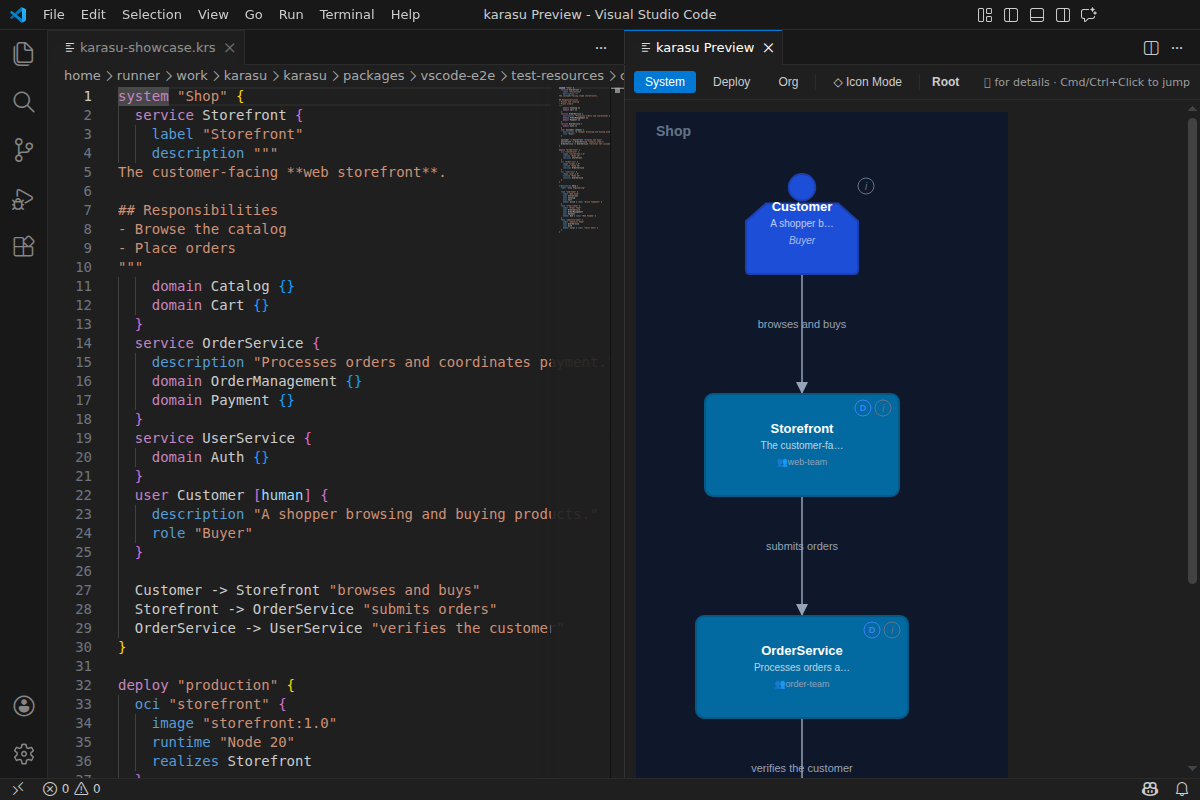
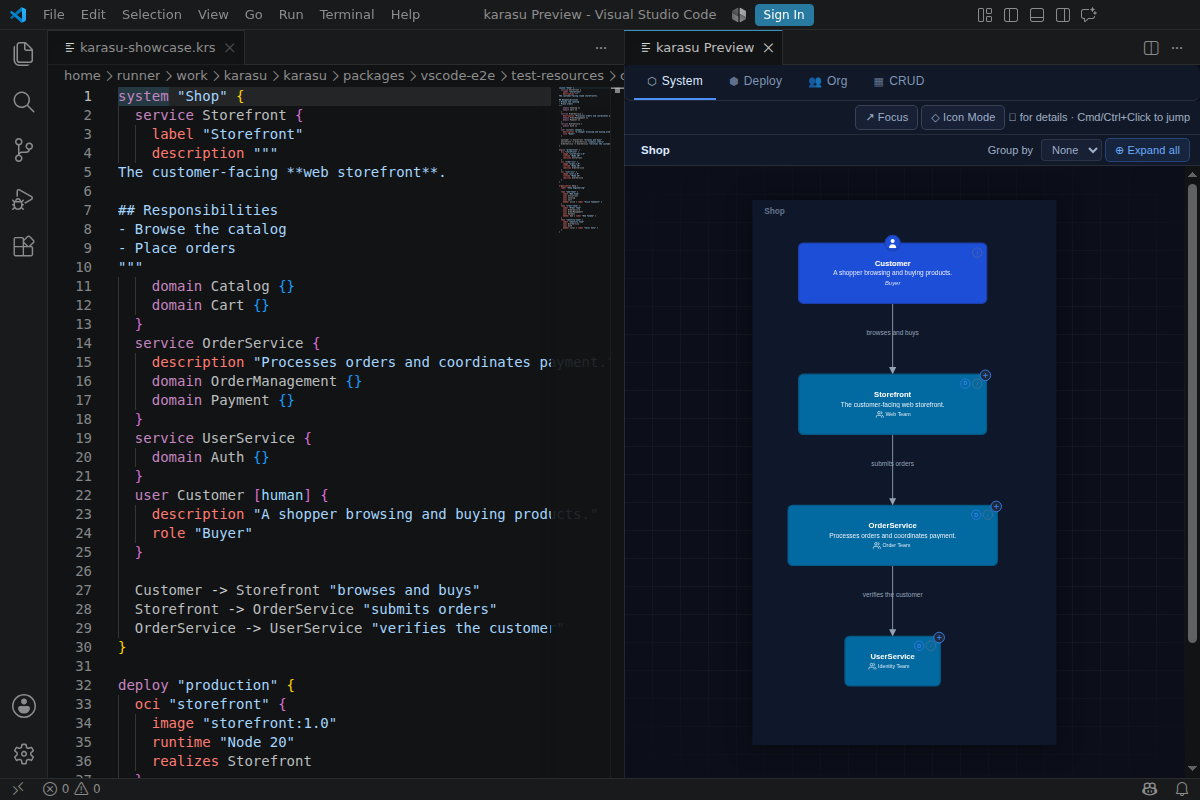
docs(vscode): recapture the README screenshots with the shared viewer (#2996)
The Marketplace screenshots showed the hand-written preview that #3329
replaced. Captured with the vscode-screenshots workflow on this branch.

diff --git a/packages/vscode/README.md b/packages/vscode/README.md
@@ -36,8 +36,8 @@ Edit `.krs` on the left, explore the live preview on the right:
 
 ![Editing a .krs model beside the live System preview](https://raw.githubusercontent.com/kompiro/karasu/main/packages/vscode/images/screenshots/01-system-view.png)
 
-karasu separates a system into three faces — switch between them from the
-preview toolbar:
+karasu separates a system into three faces — switch between them with the
+preview's tabs:
 
 ![Deploy view — physical units that realize the logical services](https://raw.githubusercontent.com/kompiro/karasu/main/packages/vscode/images/screenshots/02-deploy-view.png)
 
